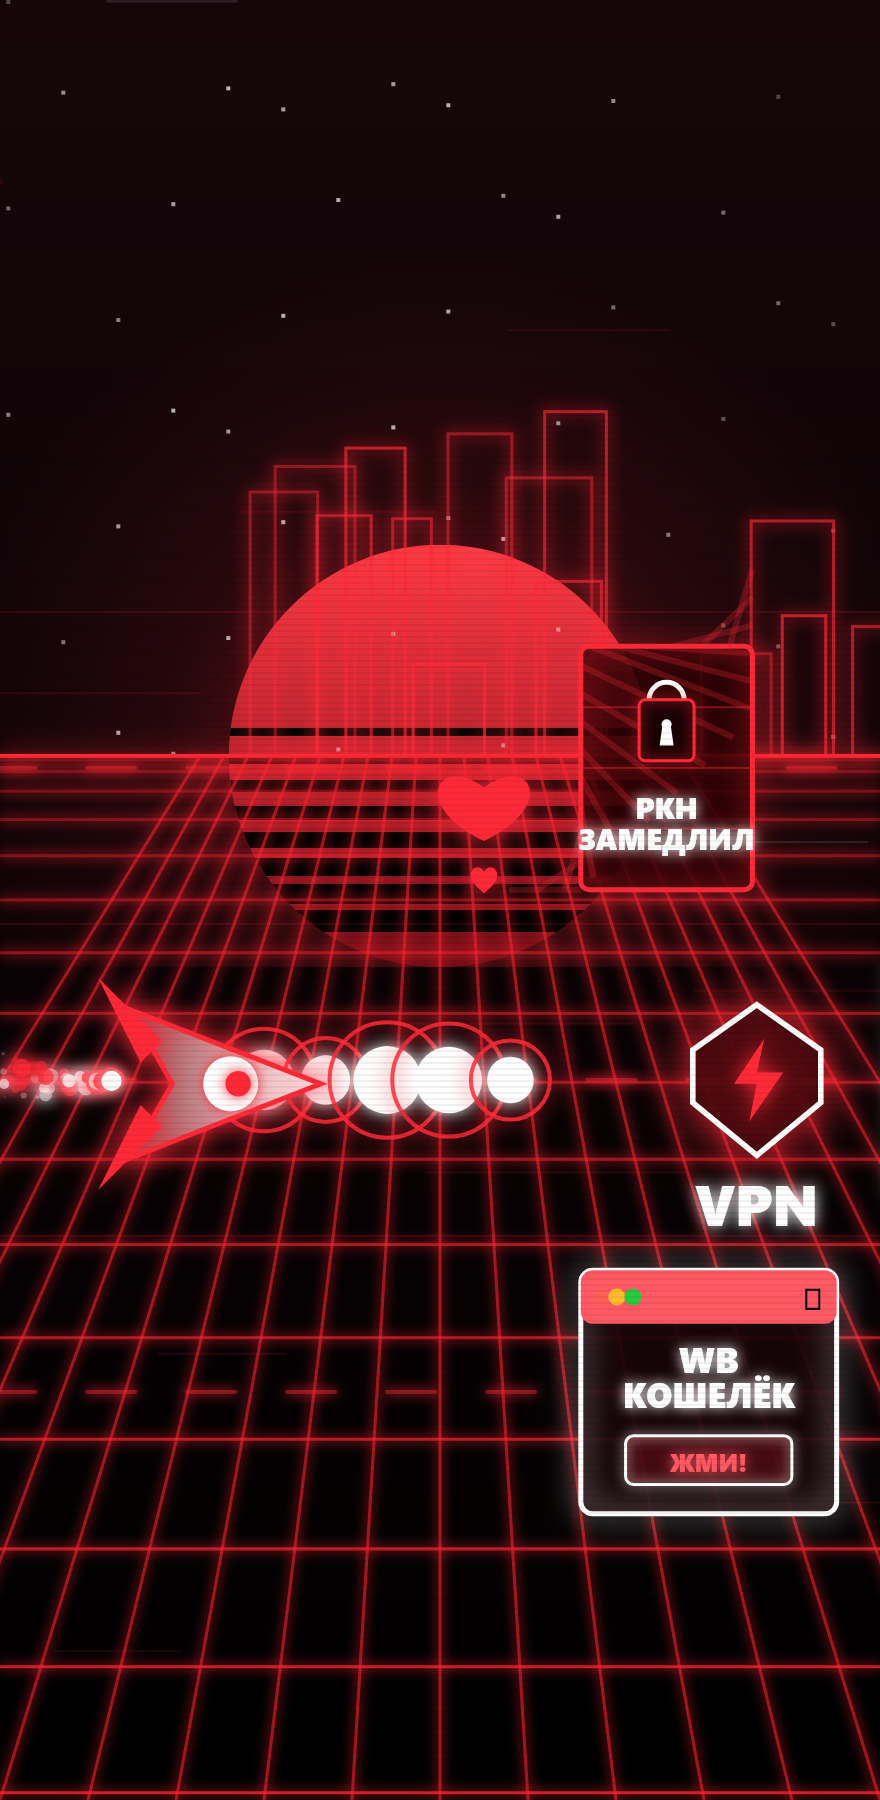
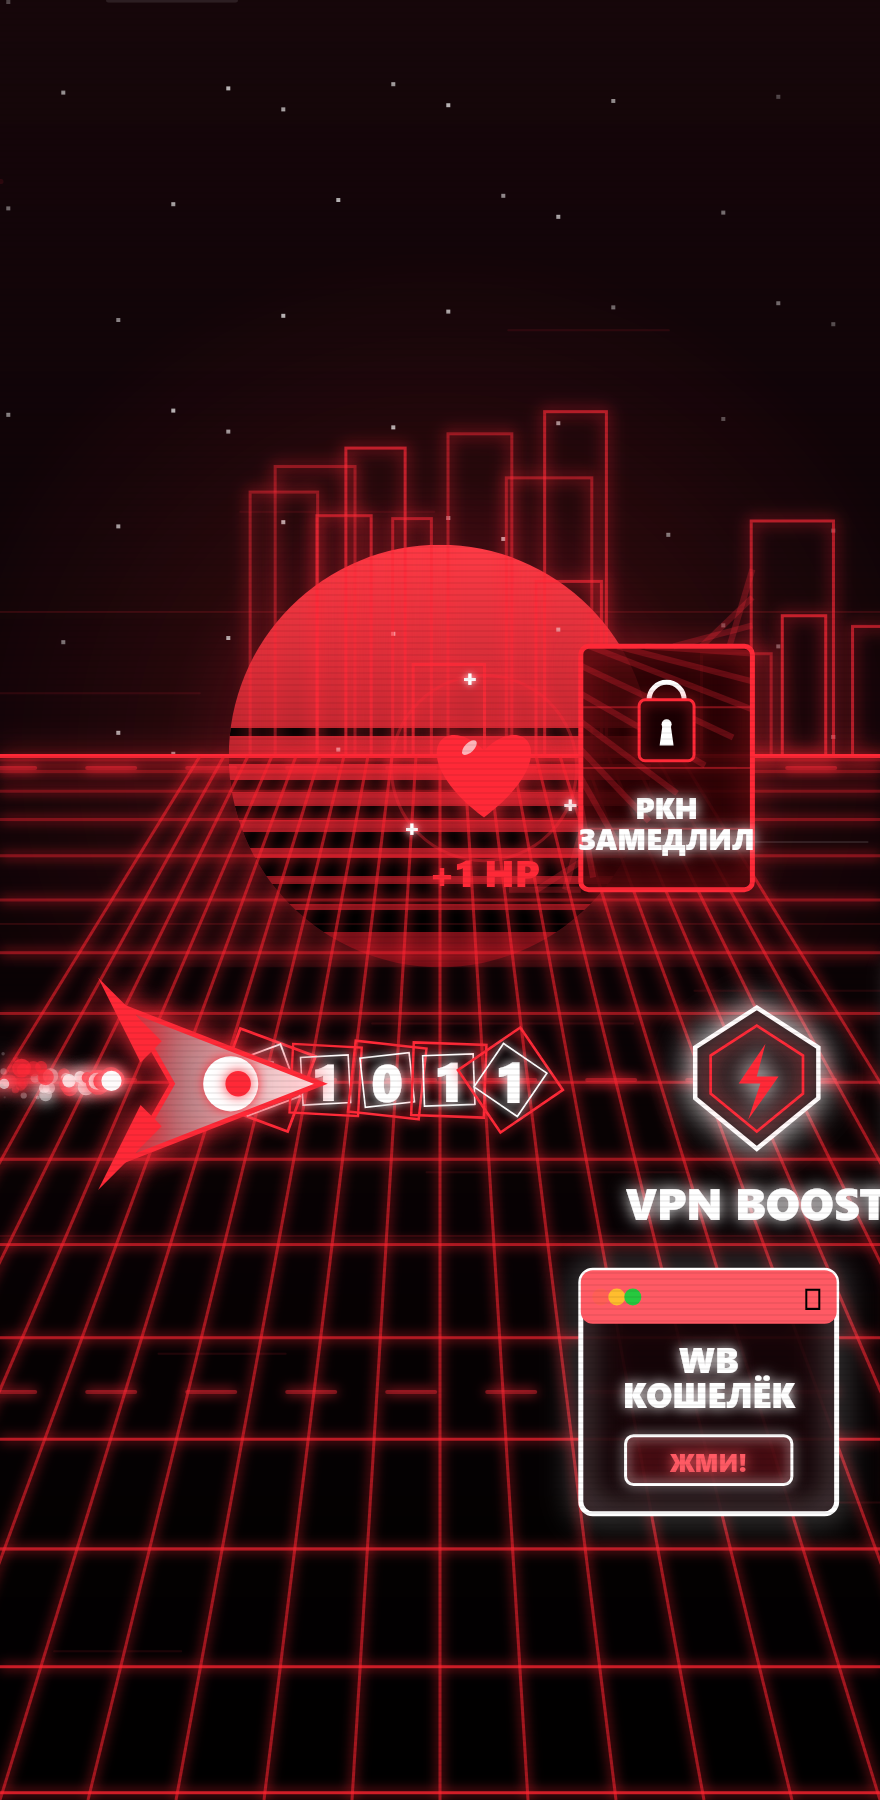
feat(game): diversify collectibles design, advanced procedural shield and heart

Changed region(s): [[0.7057, 0.5289, 1.0, 0.6844], [0.2761, 0.56, 0.6443, 0.6533], [0.4295, 0.3733, 0.675, 0.4978]]

diff --git a/src/game/collectibles.js b/src/game/collectibles.js
@@ -13,6 +13,8 @@ export class DataBit {
     this.r = geom.laneH * 0.11;
     this.dead = false;
     this.phase = Math.random() * 6.2832;
+    this.val = Math.random() > 0.5 ? '0' : '1';
+    this.rotSpeed = (Math.random() > 0.5 ? 1 : -1) * (2 + Math.random() * 2.5);
   }
 
   get w() { return this.r * 2; }
@@ -27,15 +29,45 @@ export class DataBit {
 
   draw(ctx, geom, t) {
     const y = geom.laneY[this.lane];
-    const pulse = 0.82 + Math.sin(t * 8 + this.phase) * 0.18;
+    const pulse = 0.88 + Math.sin(t * 8 + this.phase) * 0.12;
+    const r = this.r;
+    
     ctx.save();
     ctx.translate(this.x, y);
-    ctx.strokeStyle = C.red; ctx.shadowColor = C.red; ctx.shadowBlur = 16;
-    ctx.lineWidth = 2; ctx.globalAlpha = 0.85;
-    ctx.beginPath(); ctx.arc(0, 0, this.r * 1.7 * pulse, 0, 6.2832); ctx.stroke();
-    ctx.globalAlpha = 1; ctx.shadowColor = C.white; ctx.shadowBlur = 12;
-    ctx.fillStyle = C.white;
-    ctx.beginPath(); ctx.arc(0, 0, this.r * pulse, 0, 6.2832); ctx.fill();
+    ctx.scale(pulse, pulse);
+    
+    // внешний вращающийся ромб
+    ctx.save();
+    ctx.rotate(t * this.rotSpeed);
+    ctx.strokeStyle = C.red;
+    ctx.shadowColor = C.red;
+    ctx.shadowBlur = 12;
+    ctx.lineWidth = 1.5;
+    ctx.beginPath();
+    ctx.moveTo(0, -r * 1.8);
+    ctx.lineTo(r * 1.8, 0);
+    ctx.lineTo(0, r * 1.8);
+    ctx.lineTo(-r * 1.8, 0);
+    ctx.closePath();
+    ctx.stroke();
+
+    // внутренний ромб противоположного вращения
+    ctx.rotate(-t * this.rotSpeed * 2);
+    ctx.strokeStyle = C.white;
+    ctx.shadowColor = C.white;
+    ctx.shadowBlur = 6;
+    ctx.lineWidth = 1;
+    ctx.beginPath();
+    ctx.moveTo(0, -r * 1.25);
+    ctx.lineTo(r * 1.25, 0);
+    ctx.lineTo(0, r * 1.25);
+    ctx.lineTo(-r * 1.25, 0);
+    ctx.closePath();
+    ctx.stroke();
+    ctx.restore();
+    
+    // бинарная цифра по центру (не вращается для читаемости)
+    neonText(ctx, this.val, 0, 0, { color: C.white, size: r * 1.9, weight: '900', glow: 8 });
     ctx.restore();
   }
 }
@@ -60,28 +92,57 @@ export class Heart {
   draw(ctx, geom, t) {
     const y = geom.laneY[this.lane];
     const r = this.r;
-    const pulse = 1 + Math.sin(t * 5 + this.phase) * 0.1;
+    
+    // Эффект биения сердца (кардио-импульс)
+    const beat = (t * 2.5 + this.phase) % Math.PI;
+    const pulse = 1 + (Math.sin(beat * 2) > 0.85 ? Math.sin(beat * 2) * 0.16 : 0);
 
     ctx.save();
     ctx.translate(this.x, y);
+
+    // внешний круговой защитный контур
+    ctx.strokeStyle = 'rgba(255, 41, 55, 0.35)';
+    ctx.shadowColor = '#ff2937';
+    ctx.shadowBlur = 10;
+    ctx.lineWidth = 1.5;
+    ctx.beginPath();
+    ctx.arc(0, 0, r * 1.35, 0, Math.PI * 2);
+    ctx.stroke();
+
+    // вращающиеся плюсики здоровья по орбите
+    const numPluses = 3;
+    for (let i = 0; i < numPluses; i++) {
+      const angle = t * 2.8 + i * (Math.PI * 2 / numPluses) + this.phase;
+      const px = Math.cos(angle) * r * 1.35;
+      const py = Math.sin(angle) * r * 1.35;
+      neonText(ctx, '+', px, py, { color: C.white, size: r * 0.35, glow: 5, weight: '800' });
+    }
+
     ctx.scale(pulse, pulse);
 
     const img = getSprite('gags/heart');
     if (img) {
       ctx.drawImage(img, -r, -r, r * 2, r * 2);
     } else {
-      // процедурное сердце
-      ctx.shadowColor = '#ff2937'; ctx.shadowBlur = 22;
+      // процедурное сердце с бликом
+      ctx.shadowColor = '#ff2937'; ctx.shadowBlur = 24;
       ctx.fillStyle = '#ff2937';
       ctx.beginPath();
-      const s = r * 0.7;
-      ctx.moveTo(0, s * 0.4);
-      ctx.bezierCurveTo(s, -s * 0.3, s * 1.5, s * 0.8, 0, s * 1.5);
-      ctx.bezierCurveTo(-s * 1.5, s * 0.8, -s, -s * 0.3, 0, s * 0.4);
+      const s = r * 0.85;
+      ctx.moveTo(0, -s * 0.3);
+      ctx.bezierCurveTo(s * 0.7, -s * 1.0, s * 1.4, -s * 0.2, 0, s * 0.85);
+      ctx.bezierCurveTo(-s * 1.4, -s * 0.2, -s * 0.7, -s * 1.0, 0, -s * 0.3);
+      ctx.closePath();
+      ctx.fill();
+
+      // белый блик
+      ctx.fillStyle = 'rgba(255, 255, 255, 0.65)';
+      ctx.beginPath();
+      ctx.ellipse(-s * 0.25, -s * 0.35, s * 0.16, s * 0.08, -Math.PI / 4, 0, Math.PI * 2);
       ctx.fill();
     }
     ctx.restore();
 
-    neonText(ctx, '♥', this.x, y + r * 1.6, { color: '#ff2937', size: r * 0.65, glow: 14 });
+    neonText(ctx, '+1 HP', this.x, y + r * 1.52, { color: '#ff2937', size: r * 0.55, glow: 12, weight: '900' });
   }
 }

diff --git a/src/game/boosts.js b/src/game/boosts.js
@@ -27,29 +27,47 @@ export class Boost {
     ctx.translate(this.x, y);
     ctx.scale(pulse, pulse);
 
-    ctx.shadowColor = C.red; ctx.shadowBlur = 36;
-    ctx.fillStyle = 'rgba(40,2,6,0.85)';
-    ctx.strokeStyle = C.white; ctx.lineWidth = 3;
     const r = this.r;
-    ctx.beginPath();
-    ctx.moveTo(0, -r);
-    ctx.lineTo(r * 0.85, -r * 0.4);
-    ctx.lineTo(r * 0.85, r * 0.3);
-    ctx.lineTo(0, r);
-    ctx.lineTo(-r * 0.85, r * 0.3);
-    ctx.lineTo(-r * 0.85, -r * 0.4);
-    ctx.closePath();
-    ctx.fill(); ctx.stroke();
 
-    // молния
-    ctx.shadowBlur = 14; ctx.shadowColor = C.red; ctx.fillStyle = C.red;
+    // 1. Внешний неоновый щит (белый с размытием)
+    ctx.shadowColor = C.white; ctx.shadowBlur = 24;
+    ctx.fillStyle = 'rgba(20,2,4,0.9)';
+    ctx.strokeStyle = C.white; ctx.lineWidth = 2.5;
+    
+    const drawShieldPath = (cCtx, sz) => {
+      cCtx.beginPath();
+      cCtx.moveTo(0, -sz);
+      cCtx.lineTo(sz * 0.85, -sz * 0.45);
+      cCtx.lineTo(sz * 0.85, sz * 0.25);
+      cCtx.lineTo(0, sz * 0.95);
+      cCtx.lineTo(-sz * 0.85, sz * 0.25);
+      cCtx.lineTo(-sz * 0.85, -sz * 0.45);
+      cCtx.closePath();
+    };
+    
+    drawShieldPath(ctx, r);
+    ctx.fill(); ctx.stroke();
+    
+    // 2. Внутренний красный светящийся щит
+    ctx.strokeStyle = C.red; ctx.lineWidth = 1.5;
+    ctx.shadowColor = C.red; ctx.shadowBlur = 12;
+    drawShieldPath(ctx, r * 0.75);
+    ctx.stroke();
+
+    // 3. Молния с внутренним свечением и сдвигом во времени
+    ctx.shadowBlur = 16; ctx.shadowColor = C.white; 
+    ctx.fillStyle = Math.sin(t * 20) > 0.8 ? C.white : C.red;
     ctx.beginPath();
-    ctx.moveTo(r * 0.1, -r * 0.55); ctx.lineTo(-r * 0.3, r * 0.05);
-    ctx.lineTo(0, r * 0.05); ctx.lineTo(-r * 0.1, r * 0.55);
-    ctx.lineTo(r * 0.35, -r * 0.1); ctx.lineTo(0, -r * 0.1);
-    ctx.closePath(); ctx.fill();
+    ctx.moveTo(r * 0.12, -r * 0.5); 
+    ctx.lineTo(-r * 0.25, r * 0.05);
+    ctx.lineTo(r * 0.05, r * 0.05); 
+    ctx.lineTo(-r * 0.12, r * 0.55);
+    ctx.lineTo(r * 0.3, -r * 0.05); 
+    ctx.lineTo(0, -r * 0.05);
+    ctx.closePath(); 
+    ctx.fill();
 
     ctx.restore();
-    neonText(ctx, 'VPN', this.x, y + r * 1.5, { color: C.white, size: r * 0.7, glow: 12 });
+    neonText(ctx, 'VPN BOOST', this.x, y + r * 1.5, { color: C.white, size: r * 0.55, glow: 12, weight: '900' });
   }
 }
